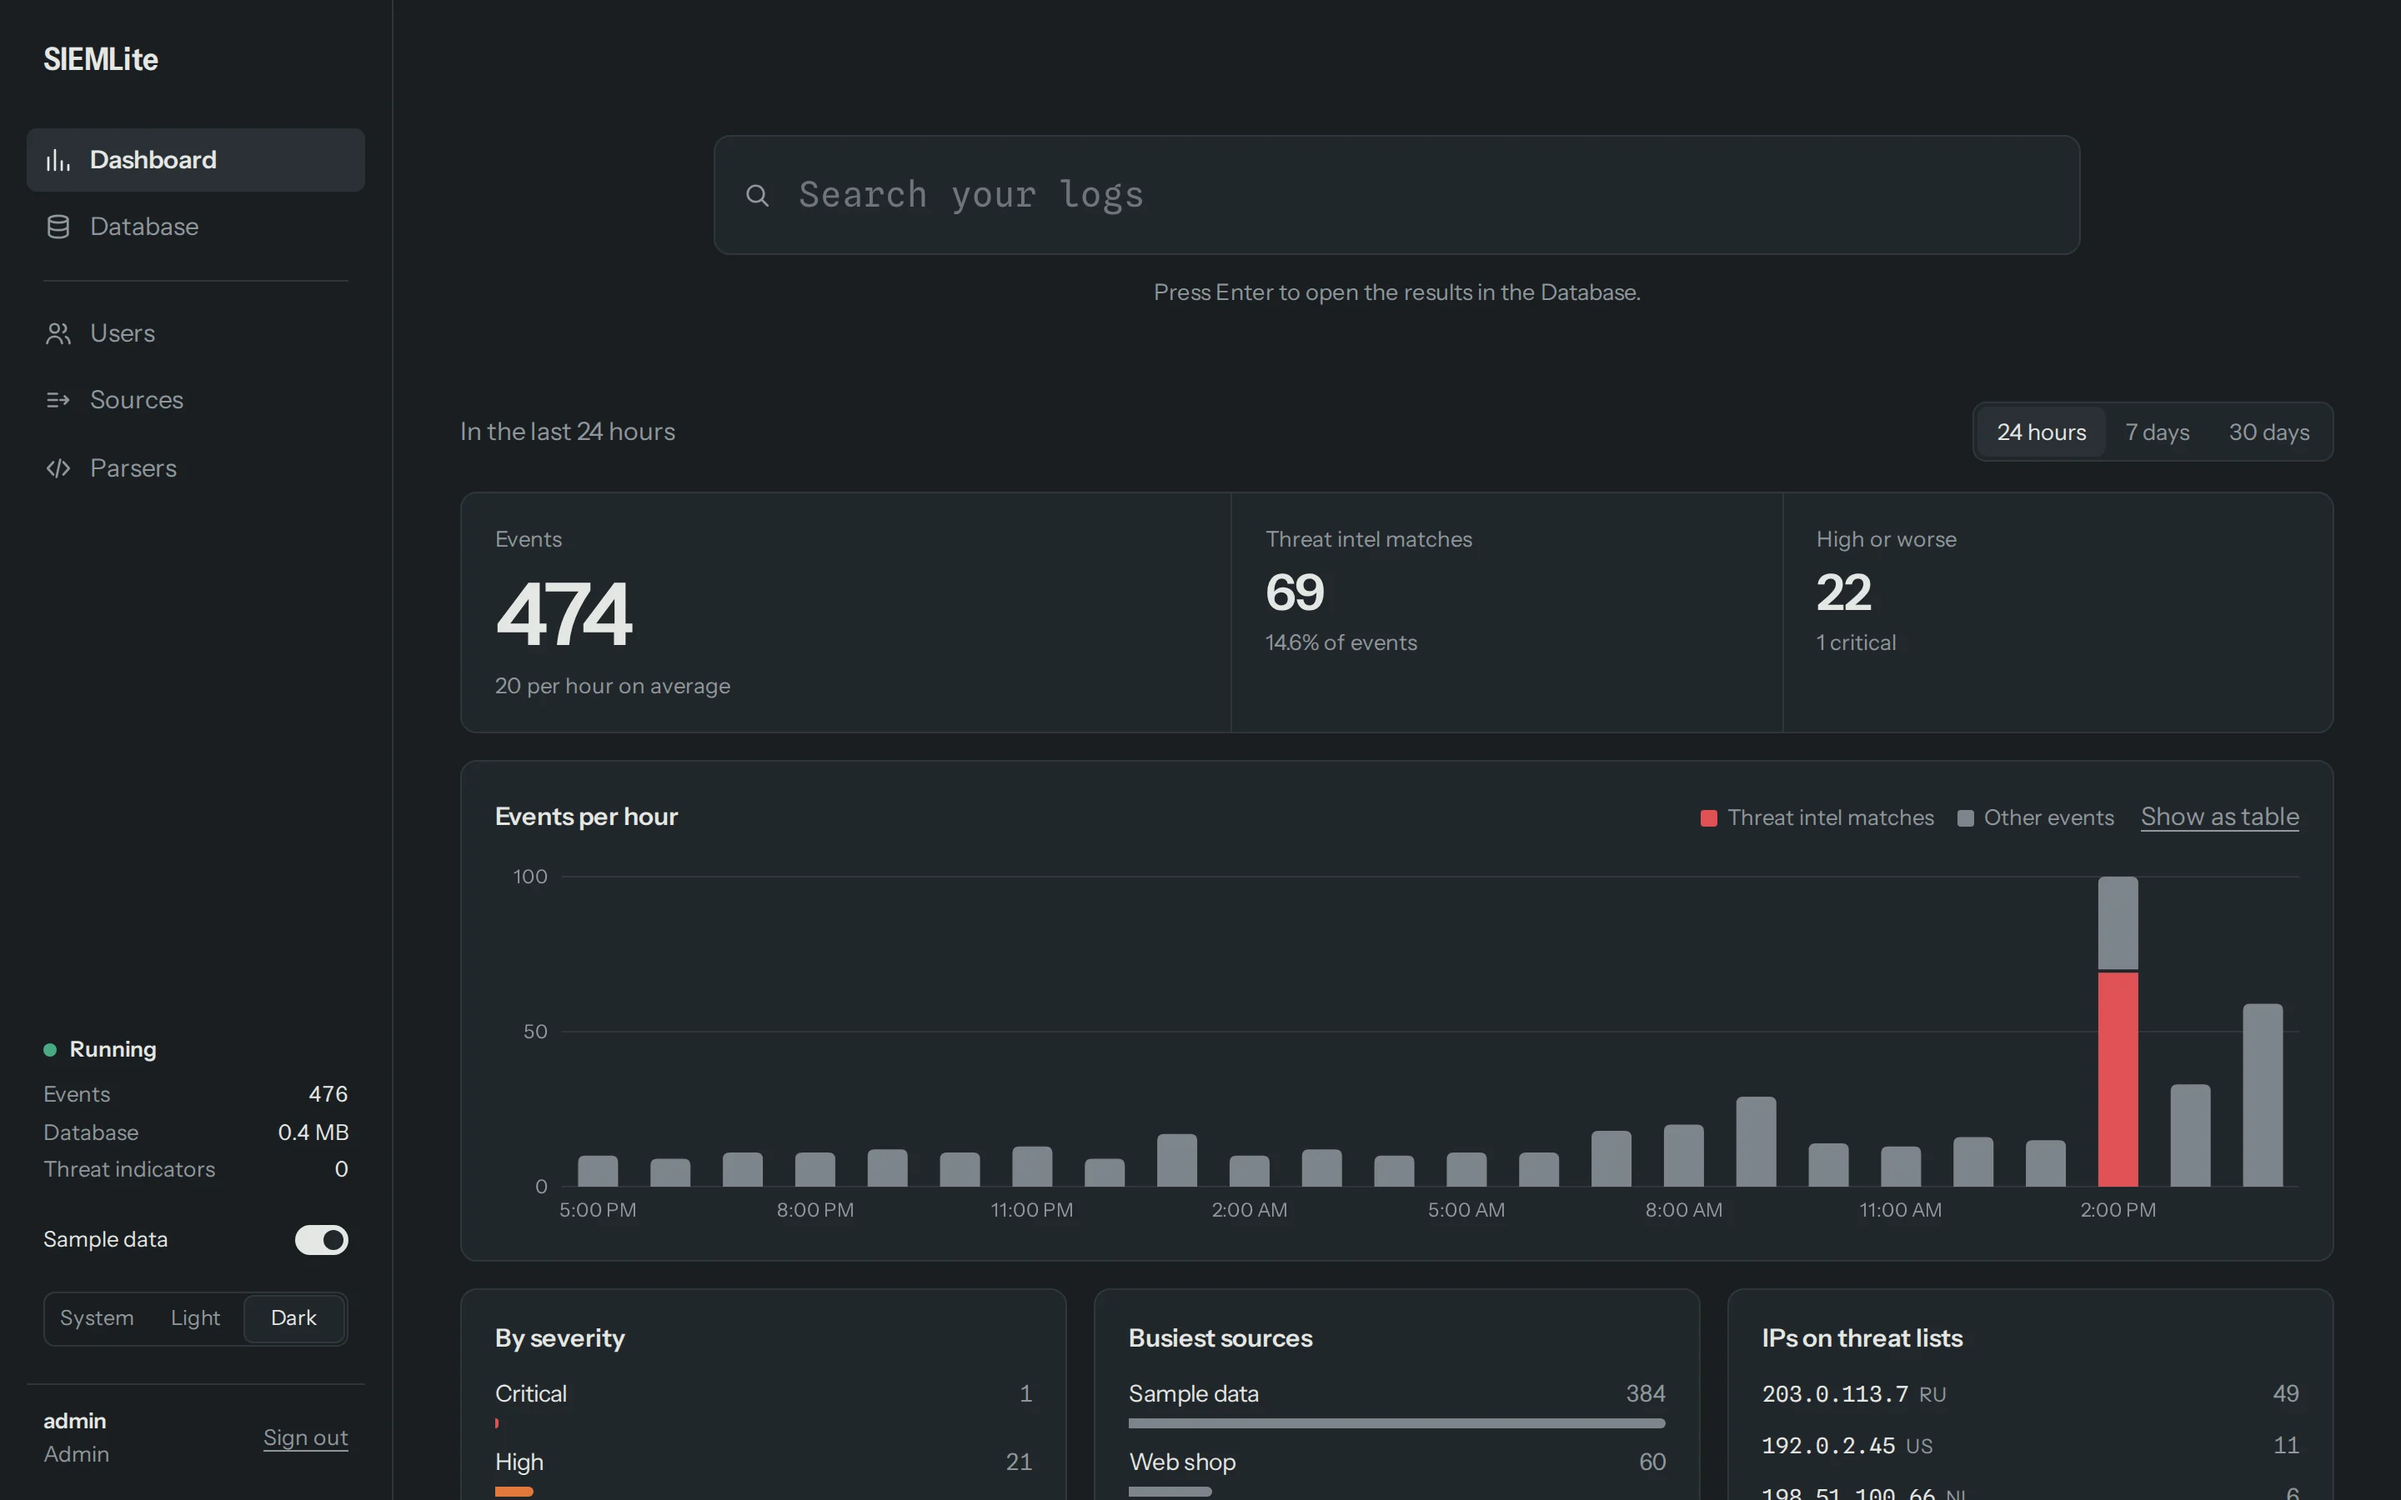
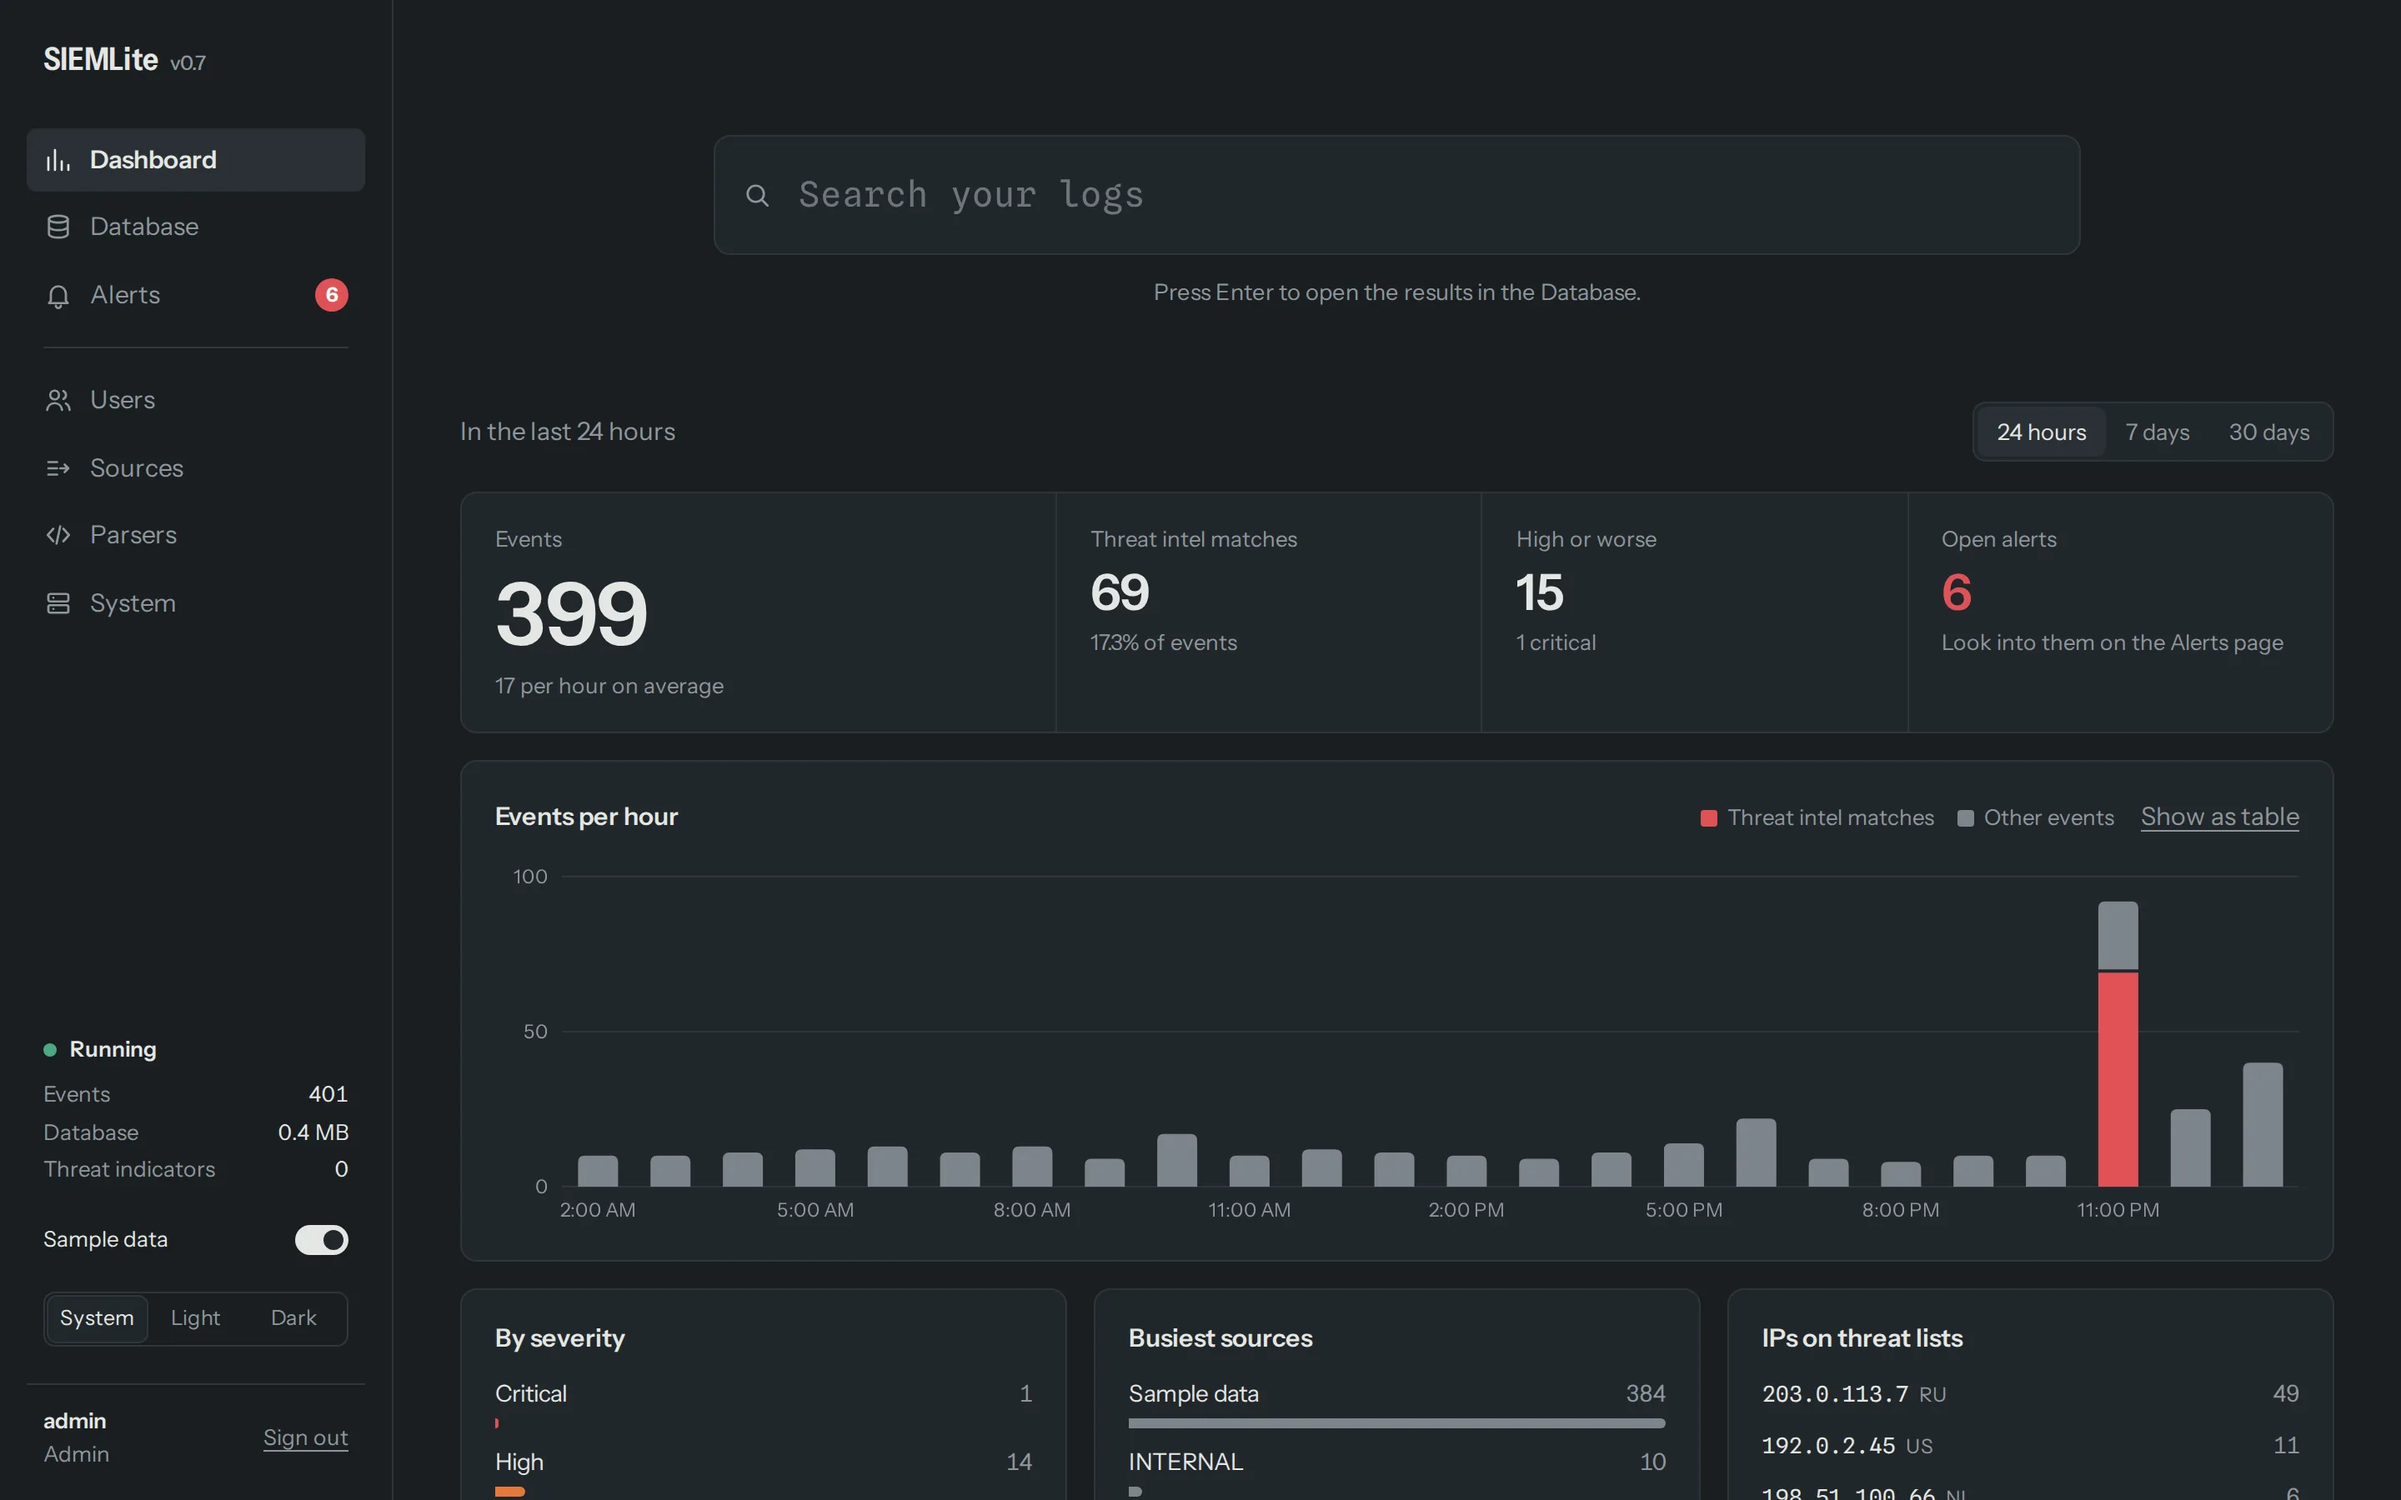
Pages: v0.7 alerts, audit log, releases and measured performance, with new screenshots

diff --git a/index.html b/index.html
@@ -133,6 +133,9 @@
   .api td:first-child { white-space: nowrap; }
   .api td:first-child code { background: none; padding: 0; font-size: 14px; }
 
+  .perf td:last-child { font-variant-numeric: tabular-nums; }
+  .perf td:first-child { white-space: normal; }
+  .perf-more { max-width: 70ch; margin-top: 20px; }
   .note { margin: 40px 0 0; padding: 16px 20px; border-radius: 10px; background: var(--surface); border: 1px solid var(--rule);
           box-shadow: inset 3px 0 0 var(--sev-3); color: var(--ink-2); max-width: 760px; }
   .note b { color: var(--ink); }
@@ -184,6 +187,7 @@
     <nav aria-label="Main">
       <a href="#see-it">See it</a>
       <a class="wide" href="#features">Features</a>
+      <a class="wide" href="#performance">Performance</a>
       <a href="#quickstart">Quick start</a>
       <a href="https://github.com/justwaters/SIEMLite">GitHub</a>
     </nav>
@@ -221,9 +225,9 @@
       <picture>
         <source srcset="screenshots/dashboard-dark.webp" media="(prefers-color-scheme: dark)">
         <img class="shot hero-shot" src="screenshots/dashboard-light.webp" width="2880" height="1800"
-          alt="The SIEMLite Dashboard: a search field over the last 24 hours, with 474 events, 69 threat intel matches and 22 events rated High or worse, a chart of events per hour with threat matches in red, and lists by severity, busiest sources and IPs on threat lists.">
+          alt="The SIEMLite Dashboard: a search field over the last 24 hours, with about 400 events, 69 threat intel matches, 15 events rated High or worse and 6 open alerts, a chart of events per hour with threat matches in red, and lists by severity, busiest sources and IPs on threat lists.">
       </picture>
-      <p class="caption">The Dashboard: the last 24 hours at a glance, with threat matches in red.</p>
+      <p class="caption">The Dashboard: the last 24 hours at a glance, with threat matches in red and the alerts waiting for you.</p>
     </div>
   </div>
 
@@ -248,6 +252,21 @@
         </div>
         <div class="tour-row flip">
           <div class="tour-text">
+            <h3>Hear about it when something&rsquo;s wrong</h3>
+            <p>Alert rules watch for patterns, like ten failed SSH passwords from one address in five minutes, and open an
+              alert you can acknowledge while you look into it and close when you&rsquo;re done. Four rules come built in;
+              add your own with the same search you use in the Database.</p>
+            <p>SIEMLite keeps an audit log too: every sign-in and every change anyone makes is an event from the INTERNAL
+              source, so repeated failed sign-ins raise an alert like anything else.</p>
+          </div>
+          <picture>
+            <source srcset="screenshots/alerts-dark.webp" media="(prefers-color-scheme: dark)">
+            <img class="shot" src="screenshots/alerts-light.webp" width="2880" height="1800" loading="lazy"
+              alt="The Alerts page with six open alerts from the sample data: threat intel matches from 10.0.0.5, 203.0.113.7 and 192.0.2.45, an SSH brute force from 203.0.113.7 with 13 events, and a critical event on web1, each with View events, Acknowledge and Close buttons.">
+          </picture>
+        </div>
+        <div class="tour-row">
+          <div class="tour-text">
             <h3>Teach it your log format</h3>
             <p>A parser picks the time, IPs, user and severity out of a source&rsquo;s lines and keeps anything else worth
               keeping. Paste a few lines, write the layout with <code>{field}</code> placeholders, and watch the preview.</p>
@@ -256,10 +275,10 @@
           <picture>
             <source srcset="screenshots/parser-dark.webp" media="(prefers-color-scheme: dark)">
             <img class="shot" src="screenshots/parser-light.webp" width="2880" height="1800" loading="lazy"
-              alt="The parser editor after an AI suggestion: a pattern with time, level, component, message, user and source IP fields, a table mapping each field, and a preview reading all three sample lines.">
+              alt="The parser editor for a web shop's access log: a pattern with source IP, user, time, method, path and status fields, severity decided by the status code, and a preview reading all three sample lines.">
           </picture>
         </div>
-        <div class="tour-row">
+        <div class="tour-row flip">
           <div class="tour-text">
             <h3>Know where every log comes from</h3>
             <p>Each application sends with its own access token, which can only send logs. The Sources page shows when each one
@@ -271,7 +290,7 @@
               alt="The Sources page: the syslog listener, logs added in the UI, sample data, and three access tokens. Web shop and Office firewall were used just now and each has its own parser; Billing service has never been used.">
           </picture>
         </div>
-        <div class="tour-row flip">
+        <div class="tour-row">
           <div class="tour-text">
             <h3>Decide who sees what</h3>
             <p>Admins run everything. Standard users search, and can be limited to the logs from the sources they look after.</p>
@@ -323,7 +342,8 @@
           <h3>Investigate<span>Finding answers</span></h3>
           <dl>
             <div><dt>Dashboard</dt><dd>Events, threat matches and severity over the last day, week or month, and the sources and IPs behind them.</dd></div>
-            <div><dt>Fast search</dt><dd>Words, phrases, <code>AND</code>, <code>OR</code> and prefixes over full log text, with dates and filters, in a few milliseconds.</dd></div>
+            <div><dt>Fast search</dt><dd>Words, phrases, <code>AND</code>, <code>OR</code> and prefixes over full log text, with dates and filters, in milliseconds, even across millions of events.</dd></div>
+            <div><dt>Alerts</dt><dd>Rules count matching events per address, user or host and open an alert when there are too many. Four are built in, including SSH brute force and threat intel matches.</dd></div>
             <div><dt>Sample data</dt><dd>One switch loads a realistic day with an intrusion to investigate. Turn it off and only the sample goes.</dd></div>
           </dl>
         </div>
@@ -331,19 +351,47 @@
           <h3>Control<span>Running it safely</span></h3>
           <dl>
             <div><dt>Users and roles</dt><dd>Admins and Standard users; Standard users can be limited to chosen sources.</dd></div>
+            <div><dt>Audit log</dt><dd>Sign-ins, failed sign-ins and every change, from the web or the command line, are recorded as searchable events.</dd></div>
+            <div><dt>Backups</dt><dd>Consistent backups while it runs, on a schedule or on demand. Download them, upload them elsewhere, restore in seconds.</dd></div>
             <div><dt>HTTPS only</dt><dd>No plain-HTTP port to forget to close. A certificate is generated on first start, or bring your own.</dd></div>
             <div><dt>Retention</dt><dd>Events older than your window, 30 days by default, are deleted and the disk space is given back.</dd></div>
-            <div><dt>One container</dt><dd><code>docker compose up -d --build</code> runs it; the same command after <code>git pull</code> upgrades it.</dd></div>
+            <div><dt>Easy to run</dt><dd>Download a binary for Linux, macOS or Windows, or run the image for x86-64 and ARM64. With the repository, <code>docker compose up -d --build</code> runs it and the same command after <code>git pull</code> upgrades it.</dd></div>
           </dl>
         </div>
       </div>
     </div>
   </section>
 
+  <section id="performance">
+    <div class="wrap">
+      <h2>Fast on a small machine</h2>
+      <p class="intro">Measured with SIEMLite&rsquo;s own load tests on an AMD Ryzen Embedded R2544 (4 cores) with
+        14 GB of memory and an SSD. Searches are the slowest of every 20, with 16 people searching at once.</p>
+      <table class="api perf">
+        <thead><tr><th>Workload</th><th>Result</th></tr></thead>
+        <tbody>
+          <tr><td>Logs over HTTPS from 32 apps at once</td><td>3,700 events a second stored and searchable, about 320 million a day</td></tr>
+          <tr><td>Syslog over UDP at 4,000 messages a second</td><td>300,000 sent, 300,000 stored</td></tr>
+          <tr><td>Search 5 million events for a word, an address or a user</td><td>4&ndash;27 ms</td></tr>
+          <tr><td>&hellip; for a phrase, three words, a host and severity</td><td>28&ndash;80 ms</td></tr>
+          <tr><td>&hellip; for a word within one day, or results 5,001&ndash;5,100</td><td>190&ndash;200 ms</td></tr>
+          <tr><td>Check alert rules against all 5 million events</td><td>7 seconds</td></tr>
+          <tr><td>Back up 5 million events (684 MB compressed) / restore them</td><td>33 seconds / 21 seconds</td></tr>
+        </tbody>
+      </table>
+      <p class="caption perf-more">Version 0.7 made big searches much faster: on 500,000 events a common word went from 2.3 seconds to
+        20 milliseconds, and an address from 300 milliseconds to 1. Every commit is checked with a smaller run of the same
+        tests, along with fuzzing, a test that runs everything at once, and a browser that clicks through every page.
+        <a href="https://github.com/justwaters/SIEMLite#performance">How it&rsquo;s measured</a></p>
+    </div>
+  </section>
+
   <section id="quickstart">
     <div class="wrap">
       <h2>Running in about a minute</h2>
-      <p class="intro">You need Docker. To build it yourself instead, use Go: <code>go build -o siemlite .</code></p>
+      <p class="intro">You need Docker. Or download a ready-made binary from the
+        <a href="https://github.com/justwaters/SIEMLite/releases/latest">latest release</a> and run it, or build it with Go:
+        <code>go build -o siemlite .</code></p>
       <ol class="steps">
         <li>
           <h3>Start it</h3>
@@ -387,13 +435,16 @@ SIEMLITE_AI_URL=http://ollama:11434</pre>
           <tr><td><code>POST /api/v1/events</code></td><td>access token or admin</td><td>Store up to 10,000 OCSF events at once</td></tr>
           <tr><td><code>GET /api/v1/search</code></td><td>signed-in user</td><td>Search with text, dates and filters</td></tr>
           <tr><td><code>GET /api/v1/stats</code></td><td>signed-in user</td><td>The Dashboard&rsquo;s figures for any number of hours</td></tr>
+          <tr><td><code>/api/v1/alerts</code></td><td>signed-in user</td><td>List alerts; acknowledge, close or reopen them</td></tr>
+          <tr><td><code>/api/v1/rules</code></td><td>admin</td><td>Add, change and switch off alert rules</td></tr>
           <tr><td><code>/api/v1/sources</code></td><td>admin</td><td>Create, rename and revoke access tokens; choose parsers</td></tr>
           <tr><td><code>/api/v1/parsers</code></td><td>admin</td><td>Manage parsers, test them on sample lines, ask for a suggestion</td></tr>
           <tr><td><code>/api/v1/users</code></td><td>admin</td><td>Manage users, roles and the sources they can see</td></tr>
         </tbody>
       </table>
       <p class="note"><b>Early-stage project.</b> Client-certificate (mTLS) verification and per-token rate limiting are
-        not built yet. Every pull request runs the tests, a race detector, a Docker build and Go&rsquo;s vulnerability scanner.</p>
+        not built yet. Every pull request runs the tests with a race detector, load tests, fuzzing, a browser test, a Docker
+        build and Go&rsquo;s vulnerability scanner.</p>
     </div>
   </section>
 </main>
